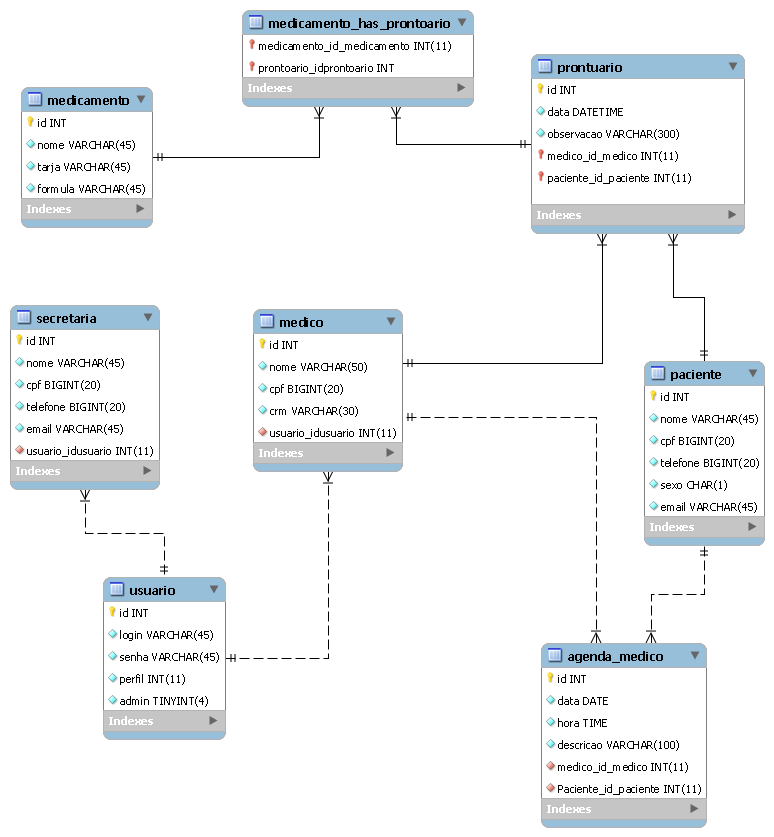
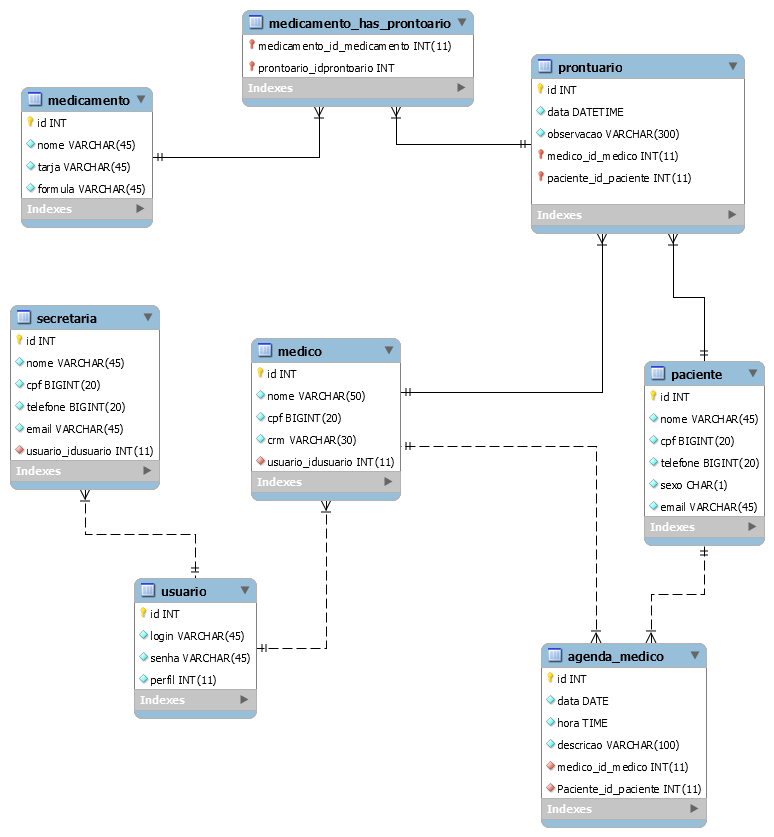
ModificacaoBanco

diff --git a/src/controle/AdministradorDAO.java b/src/controle/AdministradorDAO.java
@@ -24,7 +24,6 @@ public class AdministradorDAO implements IAdministradorDAO {
 			stm.setString(1, p.getLogin());
 			stm.setString(2, p.getSenha());
 			stm.setInt(3, p.getPefil());
-			stm.setBoolean(4, p.isAdmin());
 
 			stm.executeUpdate();
 
@@ -50,7 +49,7 @@ public class AdministradorDAO implements IAdministradorDAO {
 			stm.setString(1, p.getLogin());
 			stm.setString(2, p.getSenha());
 			stm.setInt(3, p.getPefil());
-			stm.setBoolean(4, p.isAdmin());
+
 			
 
 			stm.executeUpdate();
@@ -102,13 +101,11 @@ public class AdministradorDAO implements IAdministradorDAO {
 				String login = rs.getString("login");
 				String senha = rs.getString("senha");
 				int perfil = rs.getInt("perfil");
-				boolean admin = rs.getBoolean("admin");
 
 				Administrador p = new Administrador();
 				p.setLogin(login);
 				p.setSenha(senha);
 				p.setPefil(perfil);
-				p.setAdmin(admin);
 				Administradores.add(p);
 			}
 

diff --git a/src/modelo/Administrador.java b/src/modelo/Administrador.java
@@ -5,16 +5,14 @@ public class Administrador {
 	private String login;
 	private String senha;
 	private int pefil;
-	private boolean admin;
-
-	private int idusuario;
+	private int id;
 
 	public int getIdusuario() {
-		return idusuario;
+		return id;
 	}
 
 	public void setIdusuario(int idusuario) {
-		this.idusuario = idusuario;
+		this.id = idusuario;
 	}
 
 	public String getLogin() {
@@ -39,14 +37,6 @@ public class Administrador {
 
 	public void setPefil(int pefil) {
 		this.pefil = pefil;
-	}
-
-	public boolean isAdmin() {
-		return admin;
-	}
-
-	public void setAdmin(boolean admin) {
-		this.admin = admin;
 	}
 
 }
